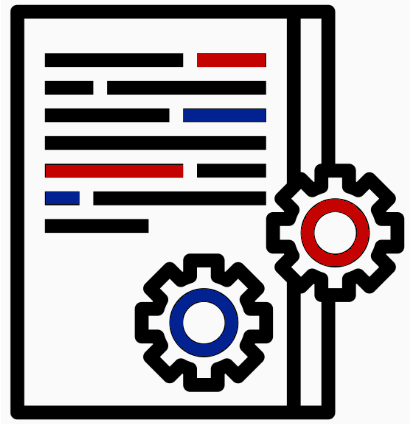
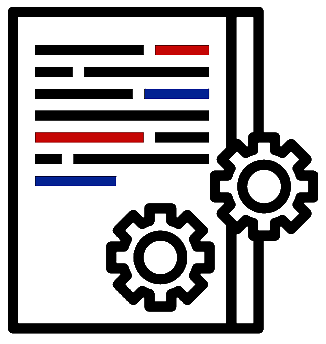
Revise get_involved, elected images

Changed region(s): [[0.0, 0.0, 1.0, 1.0], [0.092, 0.1163, 0.6442, 0.2907], [0.092, 0.3198, 0.1227, 0.3488]]

diff --git a/views/get-involved.js b/views/get-involved.js
@@ -162,8 +162,8 @@ module.exports = (state, dispatch) => {
               <br /><br />
             </div>
             <div class="column">
-              <h2 class="title is-4 has-text-centered">Build support for popular legislation</h2>
-              <img src="/assets/community.png" width="40%">
+              <h2 class="title is-4 has-text-centered">Target key legislators</h2>
+              <div class="is-vcentered"><img src="/assets/legislators.png" width="40%"></div>
               <br /><br />
             </div>
             <div class="column">

diff --git a/views/elected.js b/views/elected.js
@@ -79,7 +79,7 @@ module.exports = (state, dispatch) => {
               <br /><br />
             </div>
             <div class="column">
-              <h2 class="title is-4 has-text-centered">Poll verified voters</h2>
+              <br /><h2 class="title is-4 has-text-centered">Poll verified voters</h2>
               <img src="/assets/community.png" width="40%">
               <br /><br />
             </div>
